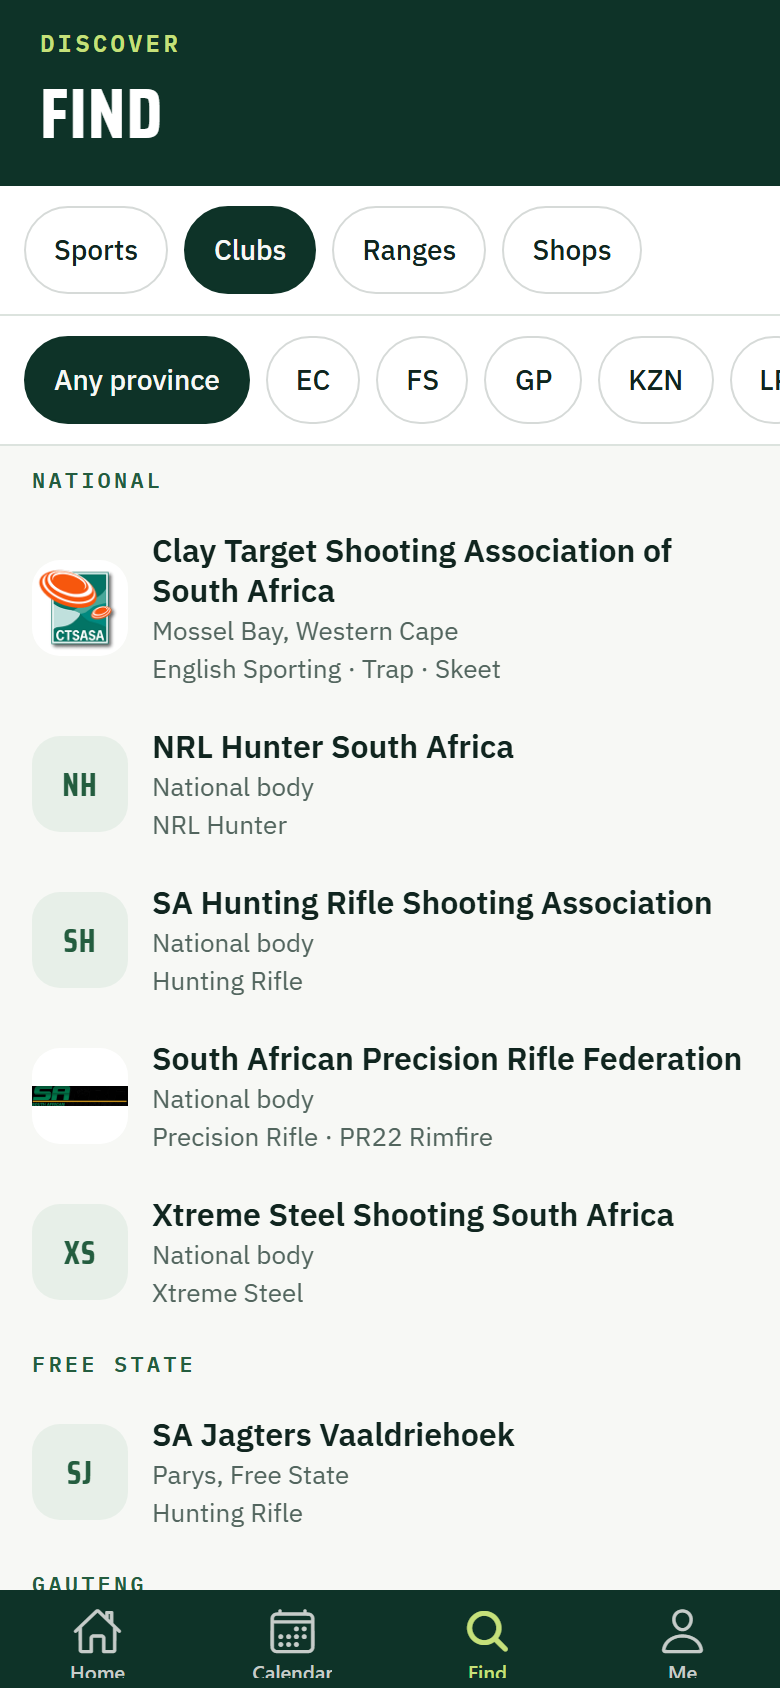
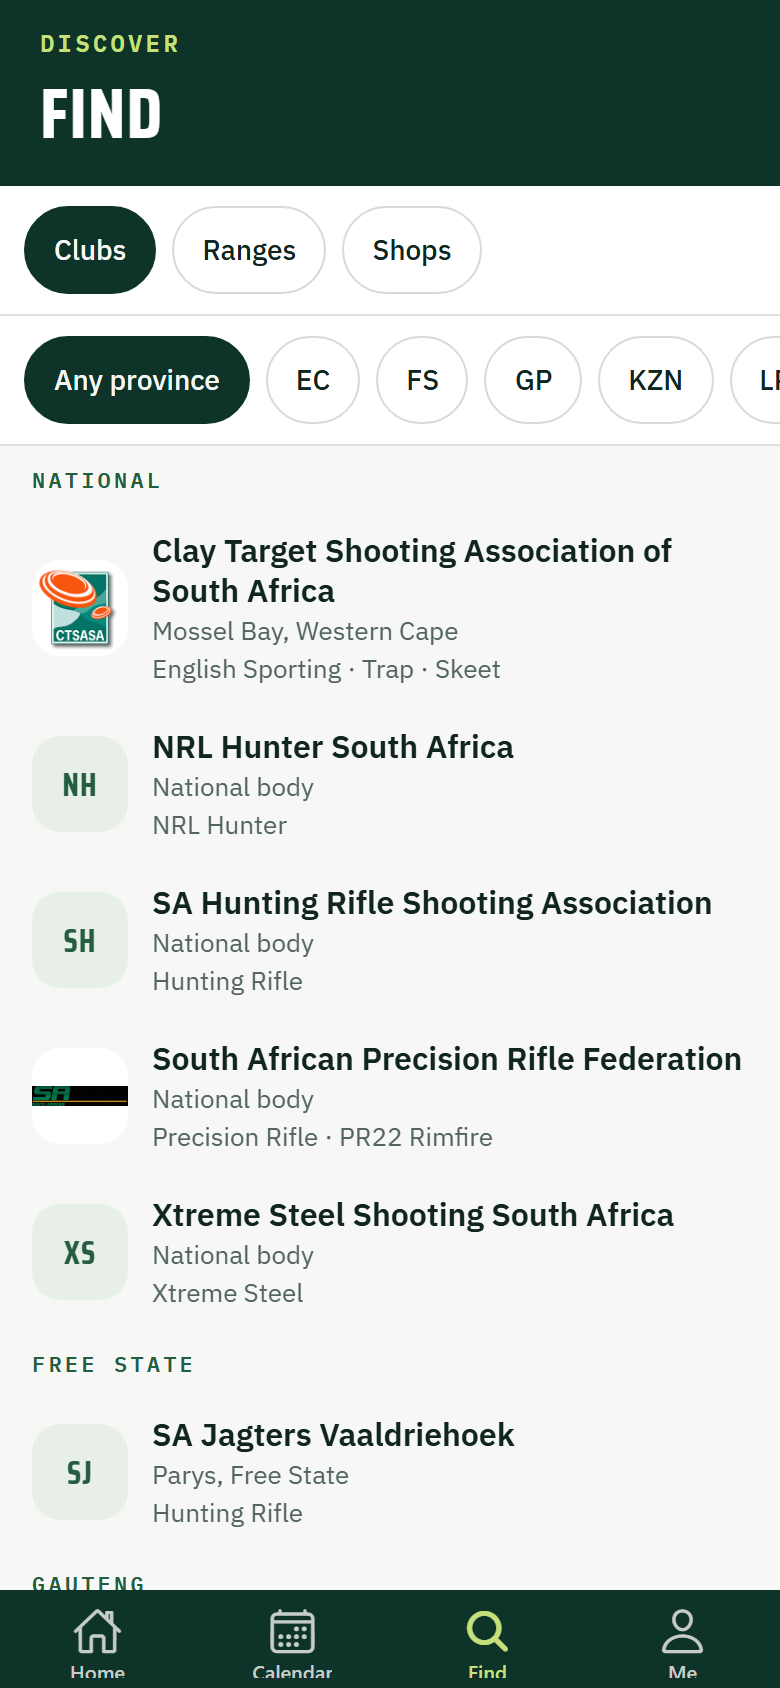
fix(3-overlap): drop Find->Sports mode (duplicated Calendar discipline filter); delete SportsList + its test

Changed region(s): [[0.0308, 0.1232, 0.6154, 0.1848], [0.6769, 0.1232, 0.8, 0.154]]

diff --git a/apps/mobile/app/(tabs)/find.web.tsx b/apps/mobile/app/(tabs)/find.web.tsx
@@ -4,7 +4,6 @@ import { ScrollView, StyleSheet, View } from 'react-native';
 import ClubsList from '@/find/ClubsList';
 import RangesList from '@/find/RangesList';
 import ShopsList from '@/find/ShopsList';
-import SportsList from '@/find/SportsList';
 import { colors } from '@/theme';
 import { FilterChip, HeroBand } from '@/ui';
 
@@ -16,13 +15,17 @@ import { FilterChip, HeroBand } from '@/ui';
  * matters when someone browses the Expo web preview.
  *
  * The map centroids aren't useful on a desktop viewport anyway, so web
- * exposes the four directory modes directly — Sports, Clubs, Ranges,
- * Shops — using the same shared list components the native screen
- * renders. The chip strip, HeroBand and colour tokens all come from the
- * same primitives so native and web stay visually consistent.
+ * exposes the three directory modes directly — Clubs, Ranges, Shops —
+ * using the same shared list components the native screen renders. The
+ * chip strip, HeroBand and colour tokens all come from the same
+ * primitives so native and web stay visually consistent.
+ *
+ * The Sports mode was removed in 2026-10 — browsing by discipline now
+ * lives on the Calendar filter sheet, where the same picker also
+ * narrows by date / province.
  */
 
-type FindMode = 'sports' | 'clubs' | 'ranges' | 'shops';
+type FindMode = 'clubs' | 'ranges' | 'shops';
 
 type ModeConfig = {
   value: FindMode;
@@ -30,14 +33,13 @@ type ModeConfig = {
 };
 
 const MODES: ReadonlyArray<ModeConfig> = [
-  { value: 'sports', label: 'Sports' },
   { value: 'clubs', label: 'Clubs' },
   { value: 'ranges', label: 'Ranges' },
   { value: 'shops', label: 'Shops' },
 ];
 
 export default function FindScreenWeb() {
-  const [mode, setMode] = useState<FindMode>('sports');
+  const [mode, setMode] = useState<FindMode>('clubs');
 
   return (
     <View style={styles.container}>
@@ -66,14 +68,12 @@ export default function FindScreenWeb() {
 }
 
 /**
- * Exhaustive switch over FindMode — adding a fifth value is a compile
+ * Exhaustive switch over FindMode — adding a fourth value is a compile
  * error until a branch lands here. Mirrors the pattern used in the
  * native Find screen.
  */
 function renderMode(mode: FindMode) {
   switch (mode) {
-    case 'sports':
-      return <SportsList />;
     case 'clubs':
       return <ClubsList />;
     case 'ranges':

diff --git a/apps/mobile/app/(tabs)/find.tsx b/apps/mobile/app/(tabs)/find.tsx
@@ -8,7 +8,6 @@ import { fetchMap, MapPayload } from '@/api/map';
 import ClubsList from '@/find/ClubsList';
 import RangesList from '@/find/RangesList';
 import ShopsList from '@/find/ShopsList';
-import SportsList from '@/find/SportsList';
 import { colors, fonts } from '@/theme';
 import { ErrorRow, FilterChip, HeroBand, Spinner } from '@/ui';
 
@@ -43,7 +42,11 @@ type IoniconName = ComponentProps<typeof Ionicons>['name'];
  *   M4f Clubs list         — `ClubsList` (`/api/v1/organisations`)
  *   M4h Ranges list        — `RangesList` (`/api/v1/venues`)
  *   M4j Shops tiles        — `ShopsList` (`/api/v1/providers`)
- *   M4l Sports tiles       — `SportsList` (`/api/v1/disciplines`)
+ *
+ * The Sports mode (M4l) was removed in 2026-10 — it duplicated the
+ * Calendar's discipline filter without adding anything a user couldn't
+ * already do from there. Discipline browsing lives on the Calendar
+ * filter sheet; Find is now a pure "where things are" directory.
  */
 
 const mapProvider = Platform.OS === 'android' ? PROVIDER_GOOGLE : undefined;
@@ -55,7 +58,7 @@ const SOUTH_AFRICA_REGION: Region = {
   longitudeDelta: 12,
 };
 
-type FindMode = 'events' | 'clubs' | 'ranges' | 'shops' | 'sports';
+type FindMode = 'events' | 'clubs' | 'ranges' | 'shops';
 
 type ModeConfig = {
   value: FindMode;
@@ -70,7 +73,6 @@ const MODES: ReadonlyArray<ModeConfig> = [
   { value: 'clubs', label: 'Clubs', icon: 'people-outline' },
   { value: 'ranges', label: 'Ranges', icon: 'navigate-outline' },
   { value: 'shops', label: 'Shops', icon: 'storefront-outline' },
-  { value: 'sports', label: 'Sports', icon: 'trophy-outline' },
 ];
 
 export default function FindScreen() {
@@ -168,8 +170,6 @@ function renderMode(
       return <RangesList />;
     case 'shops':
       return <ShopsList />;
-    case 'sports':
-      return <SportsList />;
     default: {
       // Compile-time exhaustiveness check — if a new FindMode value
       // is added to the union, this `never` assignment stops typecheck
